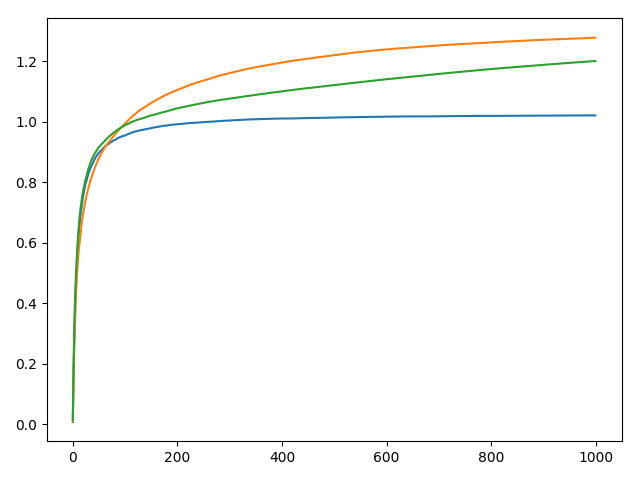
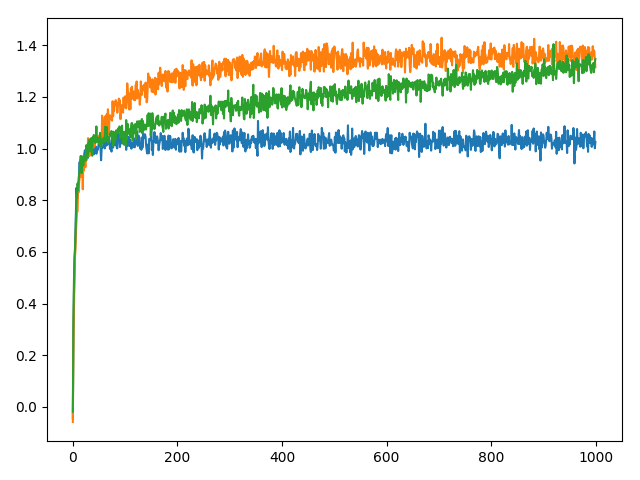
change line (done)

diff --git a/charpter2/figure_2.1_recurrence.py b/charpter2/figure_2.1_recurrence.py
@@ -15,7 +15,7 @@ for e_tmp in e:
             e_random=np.random.rand()
             if e_tmp < e_random:
                 s_max_expected = max( s_expected )
-                index_max=s_expected.index(s_max_expected)
+                index_max=np.random.choice([index_max_set for index_max_set, s_max_expected_set in enumerate(s_expected) if s_max_expected_set==s_max_expected])
                 s_max=s_xing[index_max]
                 r=np.random.normal(s_max,sigma,1)
             else:
@@ -38,10 +38,10 @@ for e_tmp in e:
 # r_after=np.average(r_whole,axis = 1)
 # for i in range(len(r_whole)):
 #     one_line=r_whole[i]
-    for i in range(len(r_line)):
-        if i!=0:
-            r_line[i]=r_line[i-1]+r_line[i]
-    for i in range(len(r_line)):
-        r_line[i] =r_line[i]/(i+1)
+#     for i in range(len(r_line)):
+#         if i!=0:
+#             r_line[i]=r_line[i-1]+r_line[i]
+#     for i in range(len(r_line)):
+#         r_line[i] =r_line[i]/(i+1)
     plot.plot(range(len(r_line)),r_line)
 plot.show()

diff --git a/charpter2/figure_2.1_recurrence_optimal_action_pointline.py b/charpter2/figure_2.1_recurrence_optimal_action_pointline.py
@@ -52,11 +52,11 @@ for e_tmp in e:
     # for i in range( len( r_optimal_action ) ):
     #     for j in range( len( r_optimal_action[i] ) ):
     #         r_line.append( r_optimal_action[i][j] )
-    for i in range(len(r_optimal_action)):
-        if i!=0:
-            r_optimal_action[i]=r_optimal_action[i-1]+r_optimal_action[i]
-    for i in range(len(r_optimal_action)):
-        r_optimal_action[i] =r_optimal_action[i]/(i+1)
+    # for i in range(len(r_optimal_action)):
+    #     if i!=0:
+    #         r_optimal_action[i]=r_optimal_action[i-1]+r_optimal_action[i]
+    # for i in range(len(r_optimal_action)):
+    #     r_optimal_action[i] =r_optimal_action[i]/(i+1)
     plot.plot(range(len(r_optimal_action)),r_optimal_action)
     # for i in range(len(r_sample[0])):
     #     plot.plot([i]*len(r_sample),r_sample[:][i])
